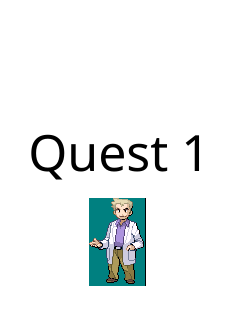
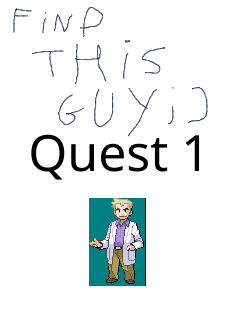
[UPTADED] quest system

diff --git a/src/load_object.c b/src/load_object.c
@@ -76,7 +76,8 @@ object_t *load_object2(object_t *obj)
 object_t *load_object3(object_t *obj)
 {
     obj[36] = create_object("pictures/quest.png", (sfVector2f){207, 80});
-    obj[37] = create_object("pictures/quest1.png", (sfVector2f){33, 50});
-    obj[38] = create_object("pictures/quest2.png", (sfVector2f){33, 50});
+    obj[37] = create_object("pictures/quest1.png", (sfVector2f){42, 50});
+    obj[38] = create_object("pictures/quest2.png", (sfVector2f){42, 50});
+    obj[39] = create_object("pictures/quest3.png", (sfVector2f){42, 50});
     return (obj);
 }

diff --git a/src/init_game.c b/src/init_game.c
@@ -31,8 +31,9 @@ void init_game_variables2(game_t *game, object_t *obj)
     game->volume = 100;
     sfSprite_setScale(obj[35].spr,(sfVector2f){0.45, 0.45});
     sfSprite_setScale(obj[36].spr,(sfVector2f){0.07, 0.07});
-    sfSprite_setScale(obj[37].spr,(sfVector2f){0.4, 0.4});
-    sfSprite_setScale(obj[38].spr,(sfVector2f){0.4, 0.4});
+    sfSprite_setScale(obj[37].spr,(sfVector2f){0.35, 0.4});
+    sfSprite_setScale(obj[38].spr,(sfVector2f){0.35, 0.4});
+    sfSprite_setScale(obj[39].spr,(sfVector2f){0.35, 0.4});
     obj->quest = 1;
 }
 

diff --git a/src/quest/quest.c b/src/quest/quest.c
@@ -13,4 +13,7 @@ void quest(game_t *game, object_t *obj)
         sfRenderWindow_drawSprite(game->window, obj[37].spr, NULL);
     if (obj->quest == 2)
         sfRenderWindow_drawSprite(game->window, obj[38].spr, NULL);
+    if (obj->quest == 3)
+        sfRenderWindow_drawSprite(game->window, obj[39].spr, NULL);
+    //printf("x = %d\n | y = %d\n", game->pos_x, game->pos_y);
 }

diff --git a/src/play_game.c b/src/play_game.c
@@ -29,4 +29,7 @@ void play_game(game_t *game, object_t *obj)
     if (game->pos_x == 27 && game->pos_y == 94
         && sfKeyboard_isKeyPressed(sfKeyE) && obj->quest == 1)
         obj->quest = 2;
+    if (game->pos_x == 19 && game->pos_y == 47
+        && sfKeyboard_isKeyPressed(sfKeyE) && obj->quest == 2)
+        obj->quest = 3;
 }

diff --git a/src/move_hero.c b/src/move_hero.c
@@ -14,6 +14,7 @@ void move_ui(object_t *obj, sfVector2f vector, game_t *game)
     sfSprite_move(obj[36].spr, vector);
     sfSprite_move(obj[37].spr, vector);
     sfSprite_move(obj[38].spr, vector);
+    sfSprite_move(obj[39].spr, vector);
     sfView_move (game->view, vector);
     move_rect(&obj[4].rect, 50, 200);
 }

diff --git a/src/main.c b/src/main.c
@@ -27,7 +27,7 @@ int help(void)
 
 int main(int arc, char **arg, char **env)
 {
-    object_t *obj = malloc(sizeof(object_t) * 39);
+    object_t *obj = malloc(sizeof(object_t) * 40);
     game_t *game = malloc(sizeof(game_t));
 
     if (arc == 2 && arg[1][0] == '-' && arg[1][1] == 'h' && !arg[1][2])
